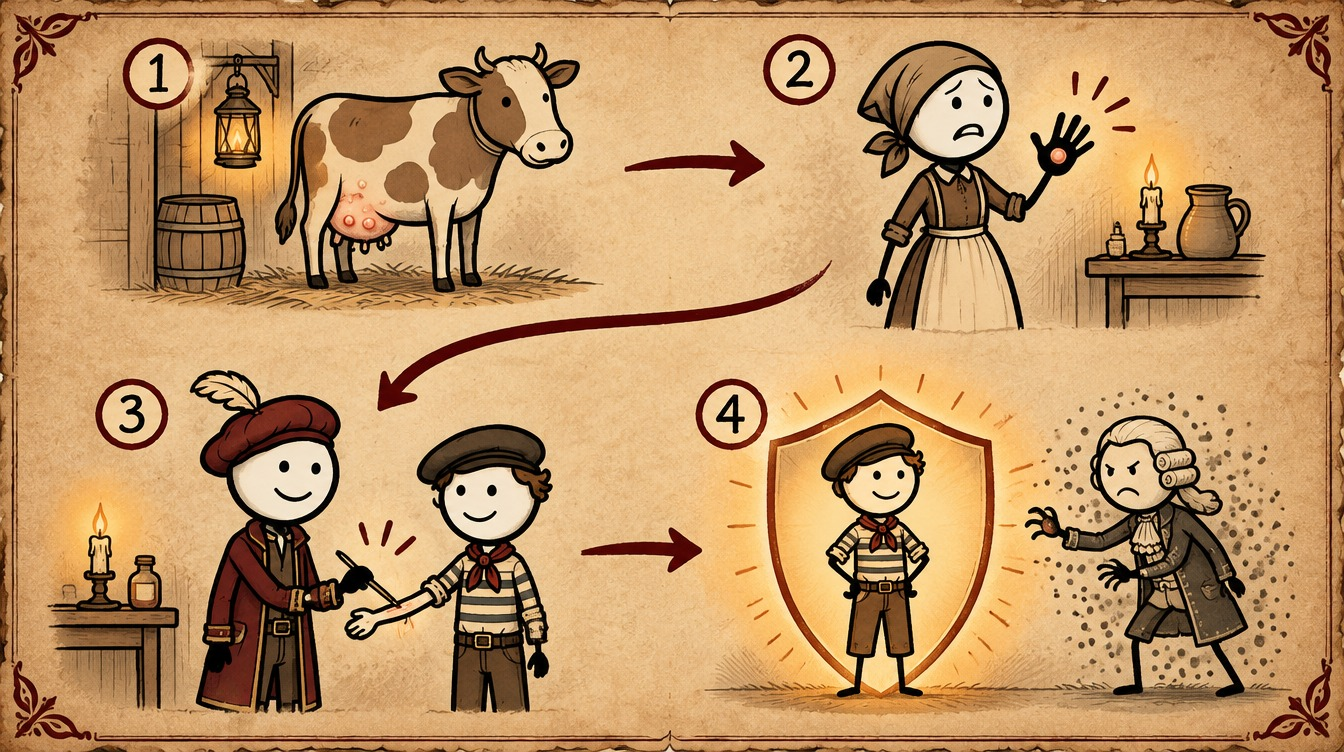
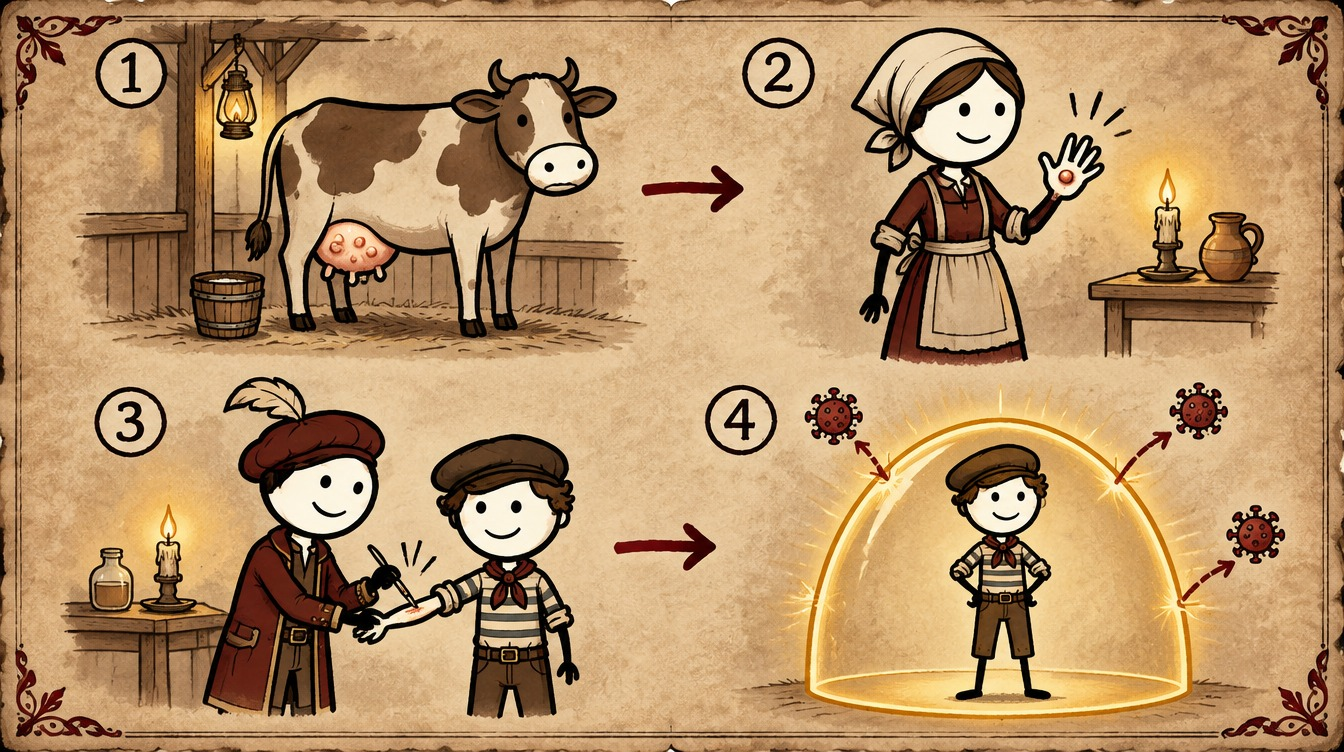
Cholera/Smallpox: fix limb errors in two diagram frames
Claude-Session: https://claude.ai/code/session_01TNc2K4iQhF6FRvCx2VQdik

diff --git a/tools/plague/ep02_spec.py b/tools/plague/ep02_spec.py
@@ -88,7 +88,7 @@ N('S01', "So what does he actually do to you? It starts fast. Anywhere from a fe
 N('S02', "Most people who catch him barely notice, but they still spread him for days. For the unlucky ones, it begins with sudden, endless watery diarrhoea, so pale that doctors called it rice water. Then the vomiting starts.",
   ch('d02a', STILL, "A hand-drawn explainer illustration in ink and muted watercolour on aged parchment, cartoon stickman style, not gory, split in two panels. Left panel (1): three stickmen standing apart, smiling and feeling fine, tiny comma-shaped germs floating off them toward a well. Right panel (2): one stickman clearly sick, pale grey face, holding his stomach and bent over a bucket, beside him a bowl of milky white rice water. No words", text=[cap('MOST: MILD OR NOTHING  ·  SEVERE: RICE-WATER DIARRHOEA, VOMITING')]))
 N('S03', "The body dries out from the inside. Painful cramps grip the legs. The eyes sink into the skull. The skin on the fingers wrinkles, as if you'd been in the bath too long. The blood thickens, and the pulse grows weak.",
-  ch('d03a', STILL, "A hand-drawn explainer illustration in ink and muted watercolour, clean like an old medical textbook plate, cartoon stickman style, not gory. A large sick stickman sits on the edge of a bed, CLEARLY showing the symptoms on his body: his round head has a grey-blue tint, dark sunken circles around his eyes, a dry cracked mouth; his fingers are wrinkled like after a long bath (shown in a small round magnified inset); zigzag cramp lines on his calves while he grabs one leg; sweat drops; a big empty water jug tipped over beside him. Numbered circled digits 1-4 next to the eyes, the fingers, the legs and the jug. No words", text=[cap('CRAMPS  ·  SUNKEN EYES  ·  WRINKLED SKIN  ·  WEAK PULSE')]))
+  ch('d03a', STILL, "A hand-drawn explainer illustration in ink and muted watercolour, clean like an old medical textbook plate, cartoon stickman style, not gory. A large sick stickman sits upright on the edge of a bed, both feet on the floor, his two stick arms clearly separate from his two stick legs, CLEARLY showing the symptoms on his body: his round head has a grey-blue tint, dark sunken circles around his eyes, a dry cracked mouth; his fingers are wrinkled like after a long bath (shown in a small round magnified inset); zigzag cramp lines on his calves while one hand grips his knee and the other hand rests on the bed; sweat drops; a big empty water jug tipped over beside him. Numbered circled digits 1-4 next to the eyes, the fingers, the legs and the jug. No words", text=[cap('CRAMPS  ·  SUNKEN EYES  ·  WRINKLED SKIN  ·  WEAK PULSE')]))
 K('S04', "It's nothing personal. I simply need the water more than you do.",
   kg('s04a', C(.5, .45, 1.1), "King Cholera stands by a stone well at night, smiling politely at the viewer. His RIGHT hand holds his tin cup up as if to drink; his LEFT hand rests on his round belly. Exactly two hands, no hand on the well."))
 N('L06', "People could be healthy at breakfast and dead by dinner. Their skin turned grey-blue and wrinkled from losing so much water. The Victorians had a name for it: the blue death.",

diff --git a/tools/plague/ep03_spec.py b/tools/plague/ep03_spec.py
@@ -167,7 +167,7 @@ N('L27d', "He had famous survivors too. The eleven-year-old Mozart caught smallp
 N('L28', "Then came the cow. In the English countryside, people had a story: milkmaids who caught cowpox, a mild disease from cows' udders, never got smallpox.",
   ch('c33a', W(), "A sunny 1790s English meadow with a thatched farmhouse: a stickman milkmaid in a bonnet carries two buckets on a yoke, a brown and white cow grazing nearby."))
 N('L29', "In 1796, the doctor Edward Jenner tested it. He took fluid from a cowpox blister on the hand of a milkmaid, Sarah Nelmes, who had caught it from a cow called Blossom, and scratched it into the arm of an eight-year-old boy, James Phipps.",
-  ch('d10a', STILL, "A hand-drawn explainer diagram in ink and muted watercolour on aged parchment, clean and readable like an old textbook plate, simple stickman figures (plain white round head, dot eyes, stick limbs) where people appear, numbered stages as small circled digits with drawn arrows between them. No words, no letters, only circled digits. Not gory. Four numbered steps: (1) a brown and white cow with a few small blisters on its udder, (2) a milkmaid stickman's hand with one blister, (3) a doctor scratching the fluid into a stickman boy's arm with a small lancet, (4) the boy standing safely behind a glowing shield while a shadowy speckled figure in a powdered wig stands outside it.", text=[cap('COW  ·  MILKMAID  ·  BOY  ·  PROTECTED')]),
+  ch('d10a', STILL, "A hand-drawn explainer diagram in ink and muted watercolour on aged parchment, clean and readable like an old textbook plate, simple stickman figures (plain white round head, dot eyes, stick limbs) where people appear, numbered stages as small circled digits with drawn arrows between them. No words, no letters, only circled digits. Not gory. Four numbered steps: (1) a brown and white cow with a few small blisters on its udder, (2) a milkmaid stickman's hand with one blister, (3) a doctor scratching the fluid into a stickman boy's arm with a small lancet, (4) the boy standing safely inside a glowing golden dome-shaped shield; outside the dome a few small red spiky virus symbols bounce off it. No other figure in panel 4.", text=[cap('COW  ·  MILKMAID  ·  BOY  ·  PROTECTED')]),
   ch('c34a', W(), "An 18th-century country doctor's study. Only two figures: a stickman boy sits on a chair facing the viewer with his shirt sleeve rolled up and BOTH hands resting on his knees; a stickman doctor in a dark coat and a short white wig stands beside him holding a small lancet in one hand, the other hand behind his back. A small jar on the table.", text=cap('EDWARD JENNER · 1796')),
   sh('c34b', C(.5, .5, 1.1), "A friendly brown and white cow standing in a green field, looking at the viewer, a little bell on her collar.", text=cap('BLOSSOM')))
 N('L30', "Six weeks later, Jenner exposed the boy to real smallpox. Nothing happened. He was protected.",
